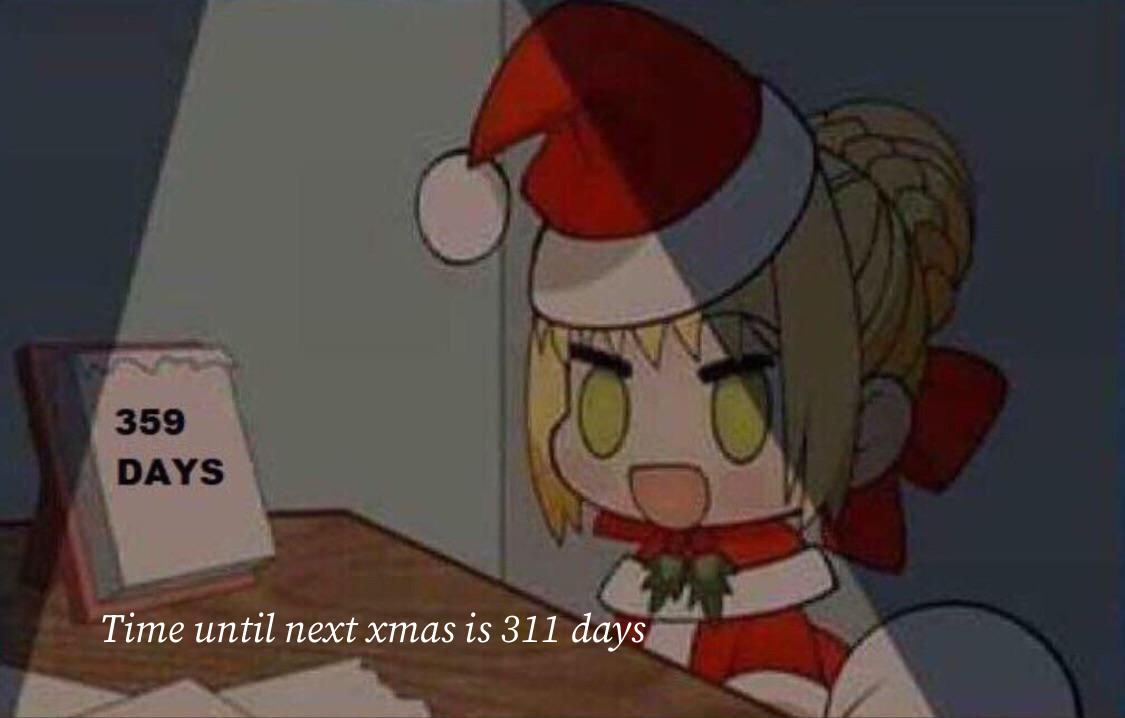
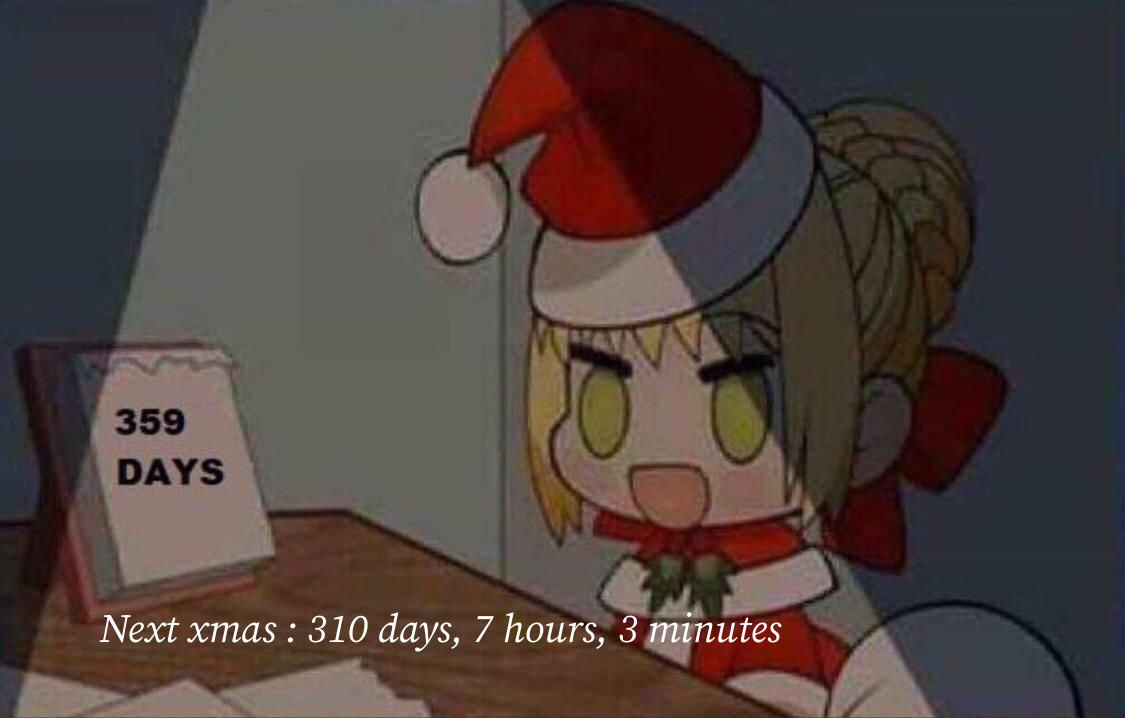
padoru

Changed region(s): [[0.0933, 0.8579, 0.7156, 0.9192]]

diff --git a/xmas.py b/xmas.py
@@ -4,17 +4,17 @@ from PIL import Image, ImageFont, ImageDraw
 
 
 def getDiff():
-    currentTime = date.today()
-    xmasTime = date(currentTime.year, 12, 25)
+    currentTime = datetime.today()
+    xmasTime = datetime(currentTime.year, 12, 25)
     if(currentTime > xmasTime):
-        xmasTime = date(currentTime.year+1, 12, 25)
-    daysDiff = (xmasTime - currentTime).days
-    print()
-    return daysDiff
+        xmasTime = datetime(currentTime.year+1, 12, 25, 0, 0, 0)
+    diff = (xmasTime - currentTime)
+    print(diff)
+    return diff
 
 
 def drawOnImg(daysDiff):
-    text = f'Time until next xmas is {daysDiff} days'
+    text = f'Next xmas : {daysDiff.days} days, {daysDiff.seconds//3600} hours, {(daysDiff.seconds//60)%60} minutes'
     img = Image.open("./img/padoru.jpg")
     drawing = ImageDraw.Draw(img)
     font = ImageFont.truetype(
